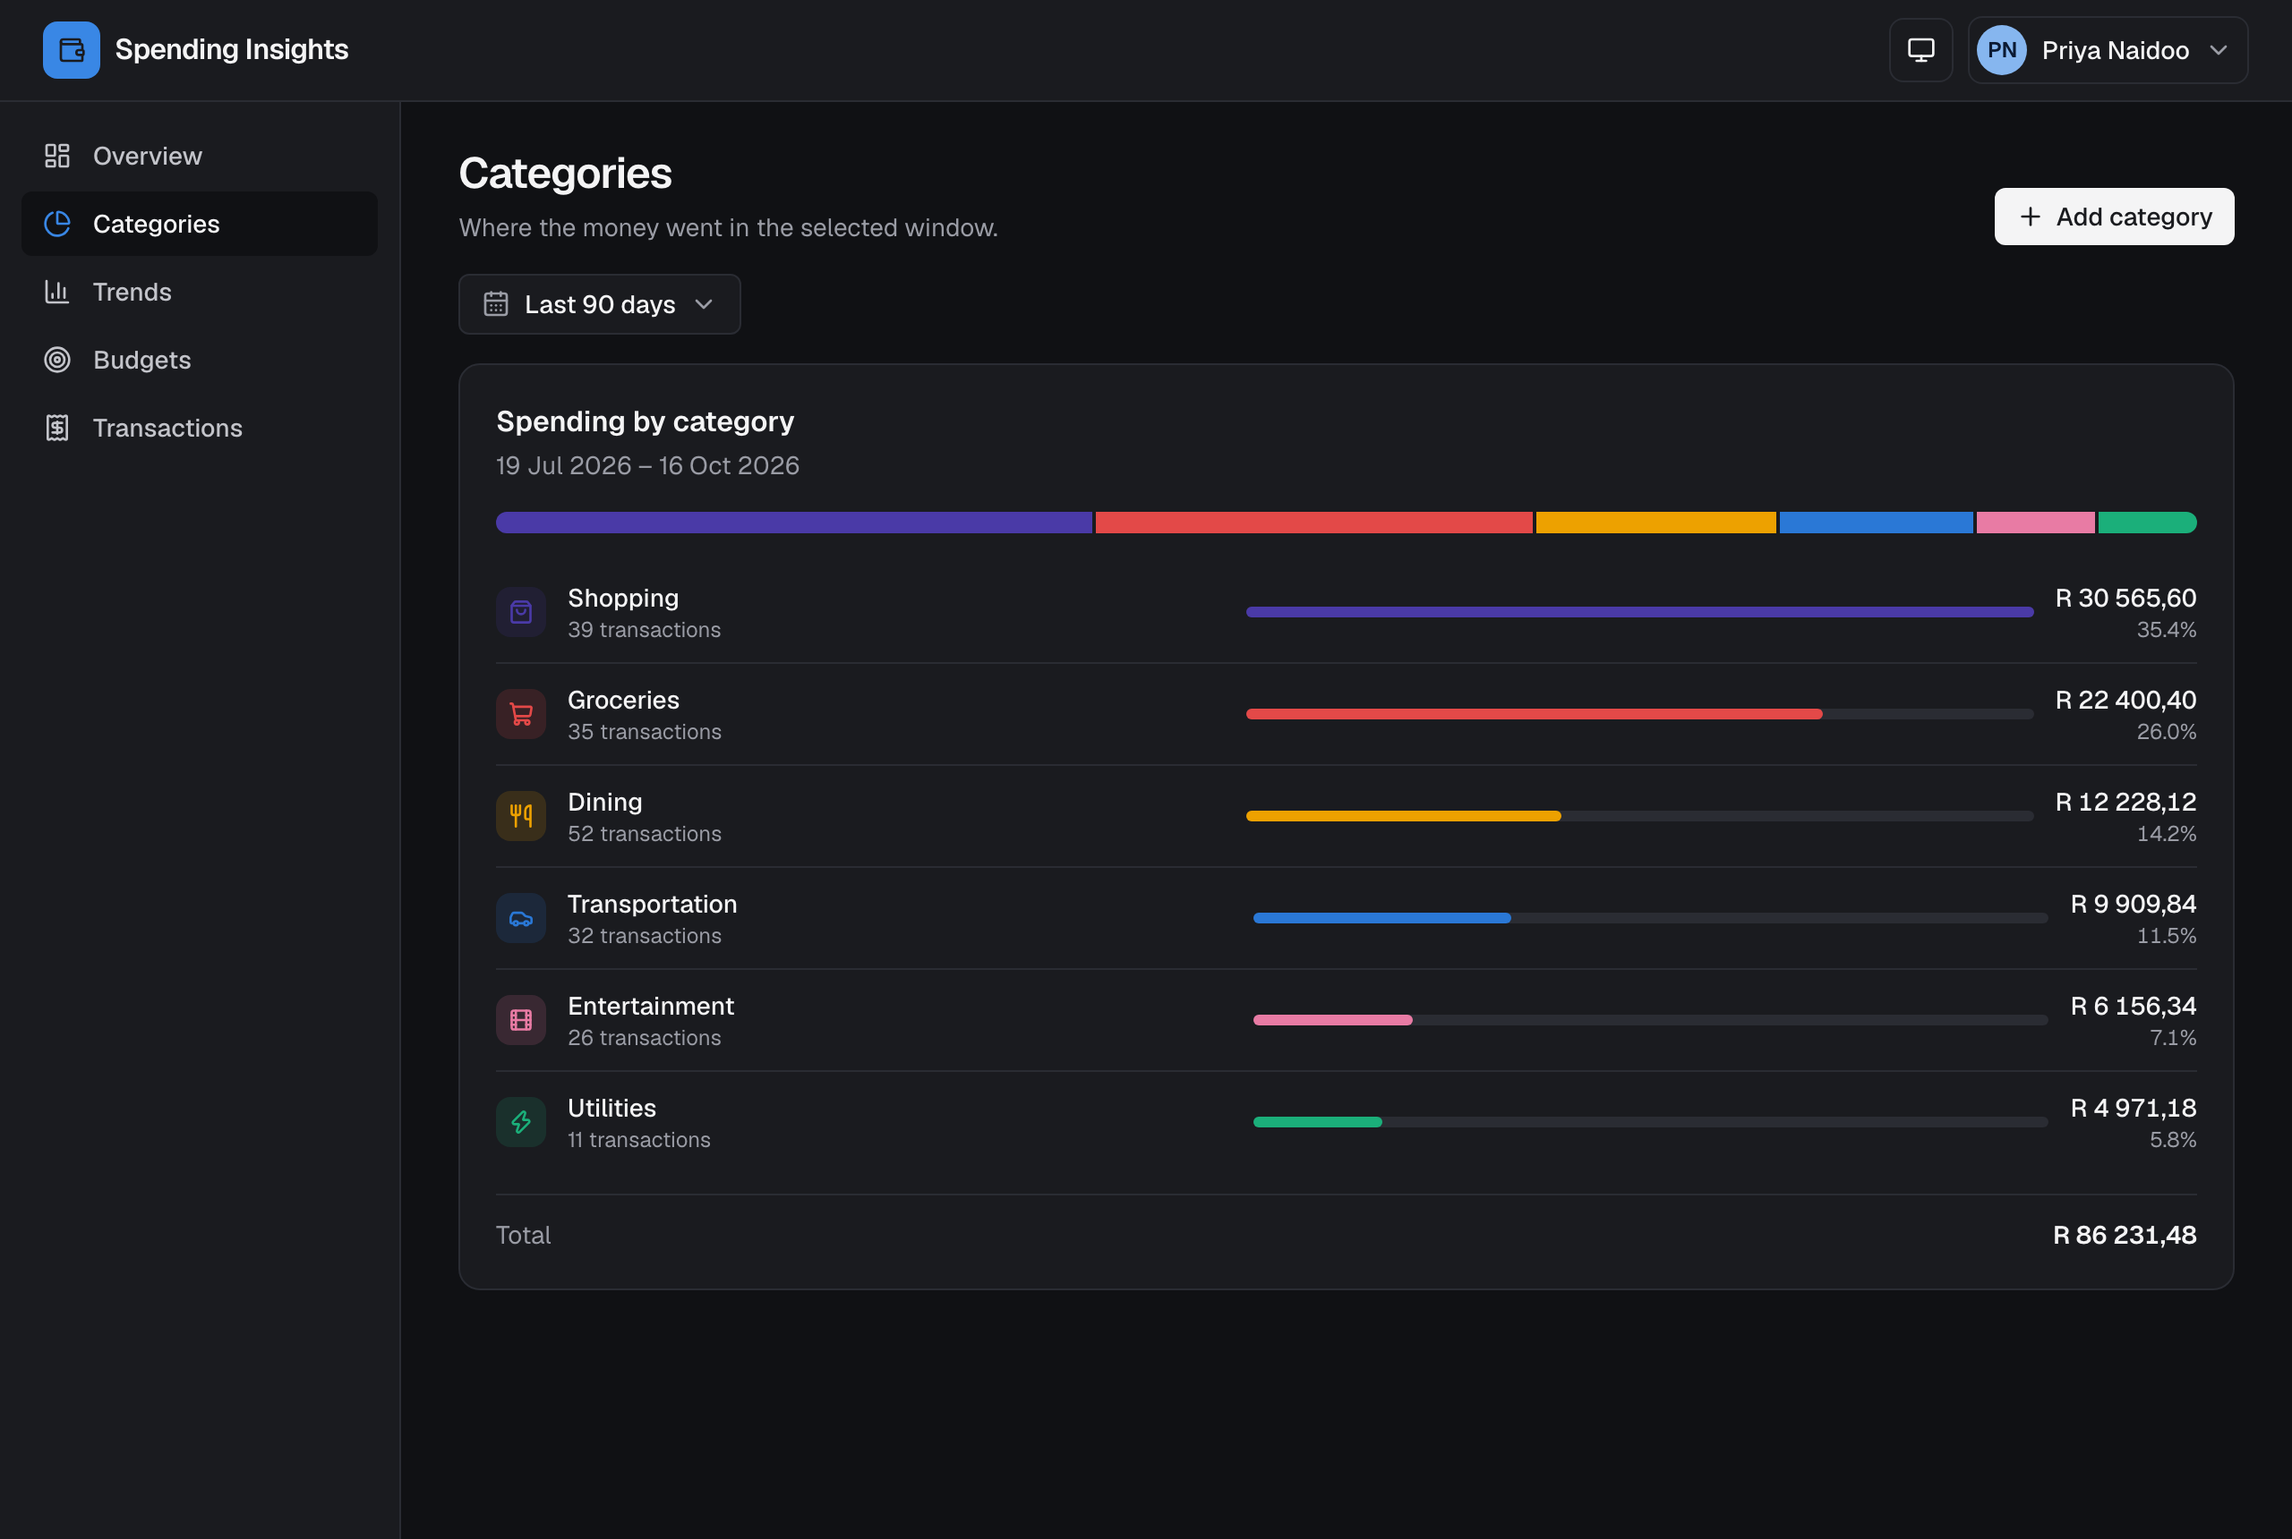
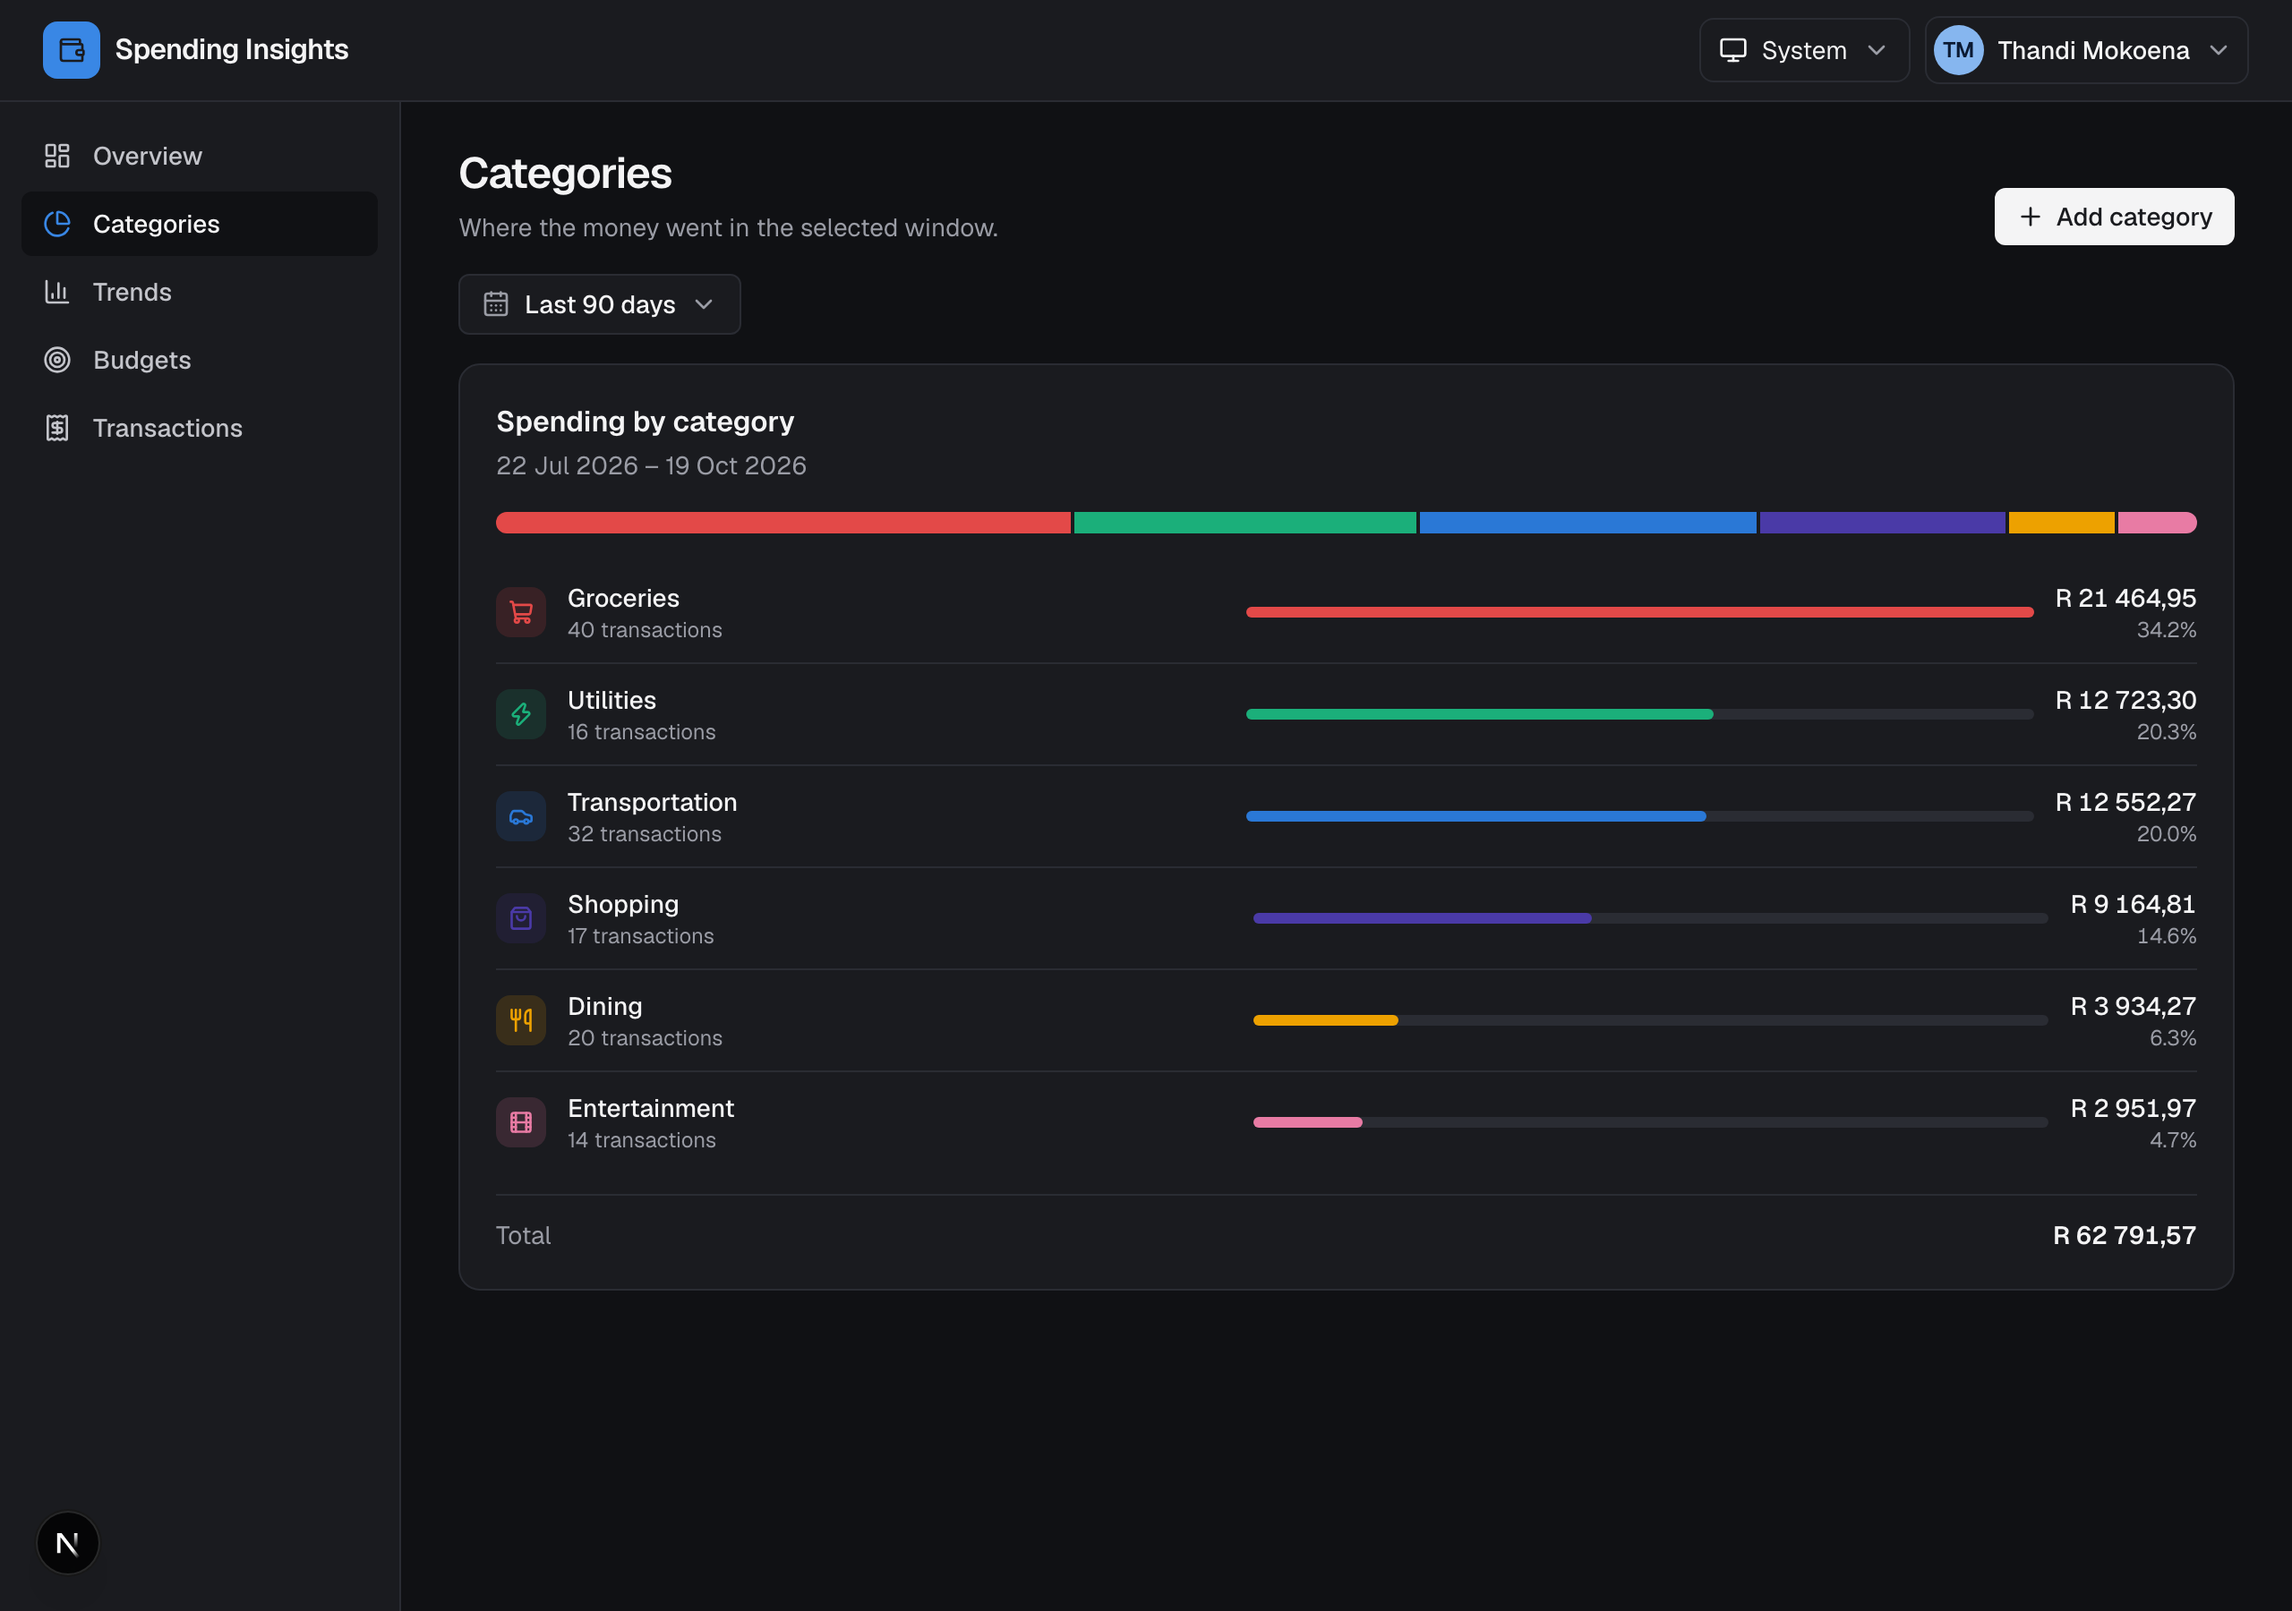
Refresh README screenshots and describe the test layers
New overview and categories captures, a Trends capture, a CI badge and
a testing section that lists what each layer checks.

diff --git a/README.md b/README.md
@@ -1,9 +1,18 @@
 # Customer Spending Insights
 
+[![CI](https://github.com/ridhaaDev/customer-spending-insights/actions/workflows/ci.yml/badge.svg)](https://github.com/ridhaaDev/customer-spending-insights/actions/workflows/ci.yml)
+
 A responsive financial analytics dashboard showing a customer's spending, backed by an API that
 serves realistic mocked transaction history.
 
-![Overview page in the light theme: headline stats, period selector and recent transactions](docs/overview-light.png)
+![Overview page in the light theme: headline stats, period selector, budgets and recent transactions](docs/overview-light.png)
+
+<details>
+<summary>Trends page: four views with a one-sentence reading each</summary>
+
+![Trends page in the light theme: monthly spending, spend by category, average transaction and spend by weekday](docs/trends-light.png)
+
+</details>
 
 <details>
 <summary>Categories page in the dark theme</summary>
@@ -54,14 +63,27 @@ The dashboard reads the API base URL from `NEXT_PUBLIC_API_URL` (default `http:/
 ## Testing
 
 ```sh
-cd customer-api   && poetry run pytest && poetry run ruff check . && poetry run ruff format --check .
+cd customer-api    && poetry run pytest && poetry run ruff check . && poetry run ruff format --check .
 cd customer-client && npm test && npm run lint && npm run typecheck
+cd customer-client && npm run e2e          # browser suite; starts the API, a production build and Storybook itself
 ```
 
-- API: unit tests for the analytics functions and contract tests for every endpoint against the
-  seeded dataset with a pinned date.
-- Client: unit tests for formatting, the API client (mocked `fetch`), the data-fetching hook, and a
-  component test.
+Three layers, all run by CI on every push and pull request:
+
+- **API (pytest)**: unit tests for the analytics functions and contract tests for every endpoint
+  against the seeded dataset with a pinned date, including validation and conflict responses.
+- **Client (Vitest + Testing Library)**: formatting, the API client (mocked `fetch`), URL-state
+  parsing, the insight sentences and quarter bucketing, a component test, and an axe pass over the
+  main components in jsdom.
+- **End-to-end (Playwright)**: Chromium against the real API and the production build served the
+  way the Docker image serves it, with `MOCK_TODAY` pinned so every assertion is reproducible.
+  Covers navigation and profile switching, the period and date-range filters, adding a
+  transaction and a budget through the modals, the trends controls, theme persistence, the phone
+  layout, API contracts, every Storybook play function, and a real-browser axe pass (including
+  colour contrast) over every route in light and dark. `npm run e2e:ui` opens the inspector.
+
+CI (`.github/workflows/ci.yml`) runs the API and client jobs in parallel, then the end-to-end
+suite and a build of both production Docker images.
 
 ## Production builds
 
